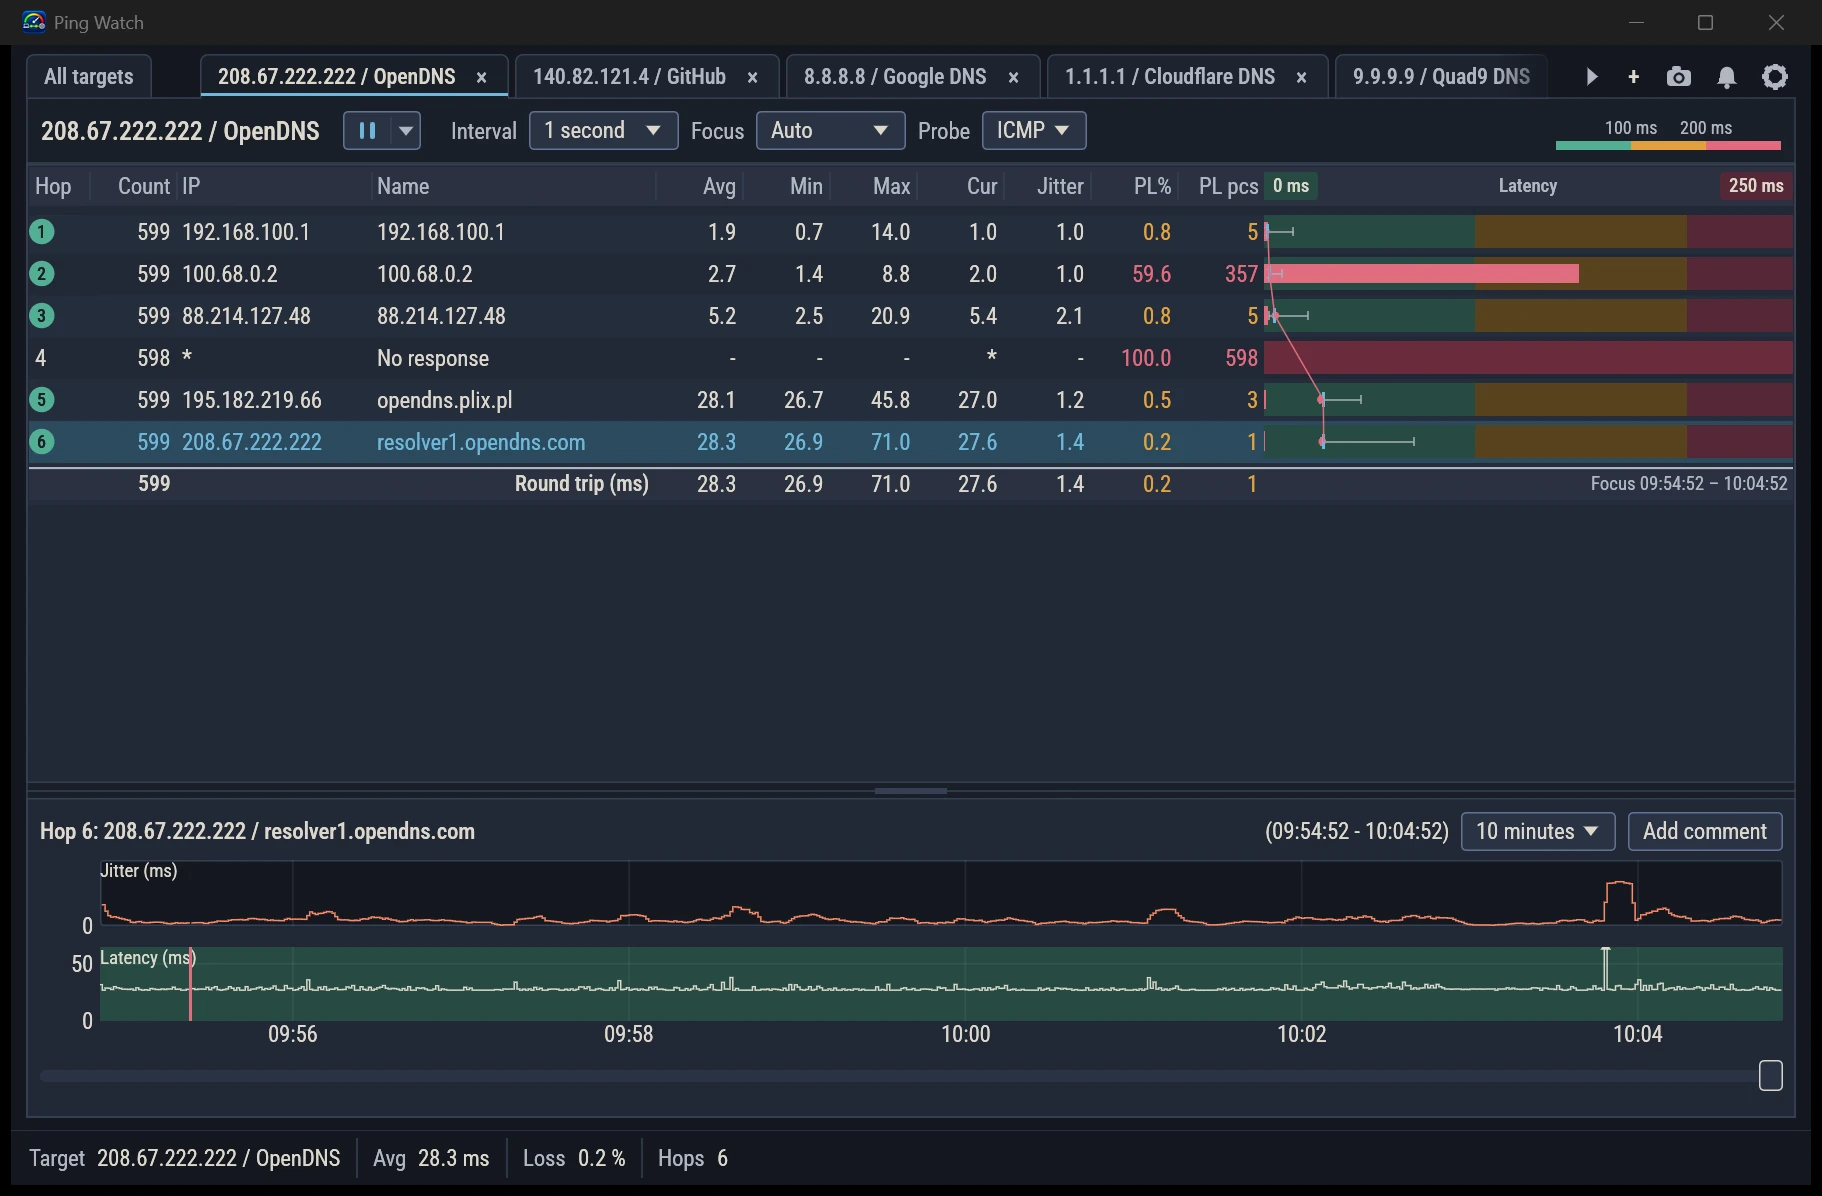
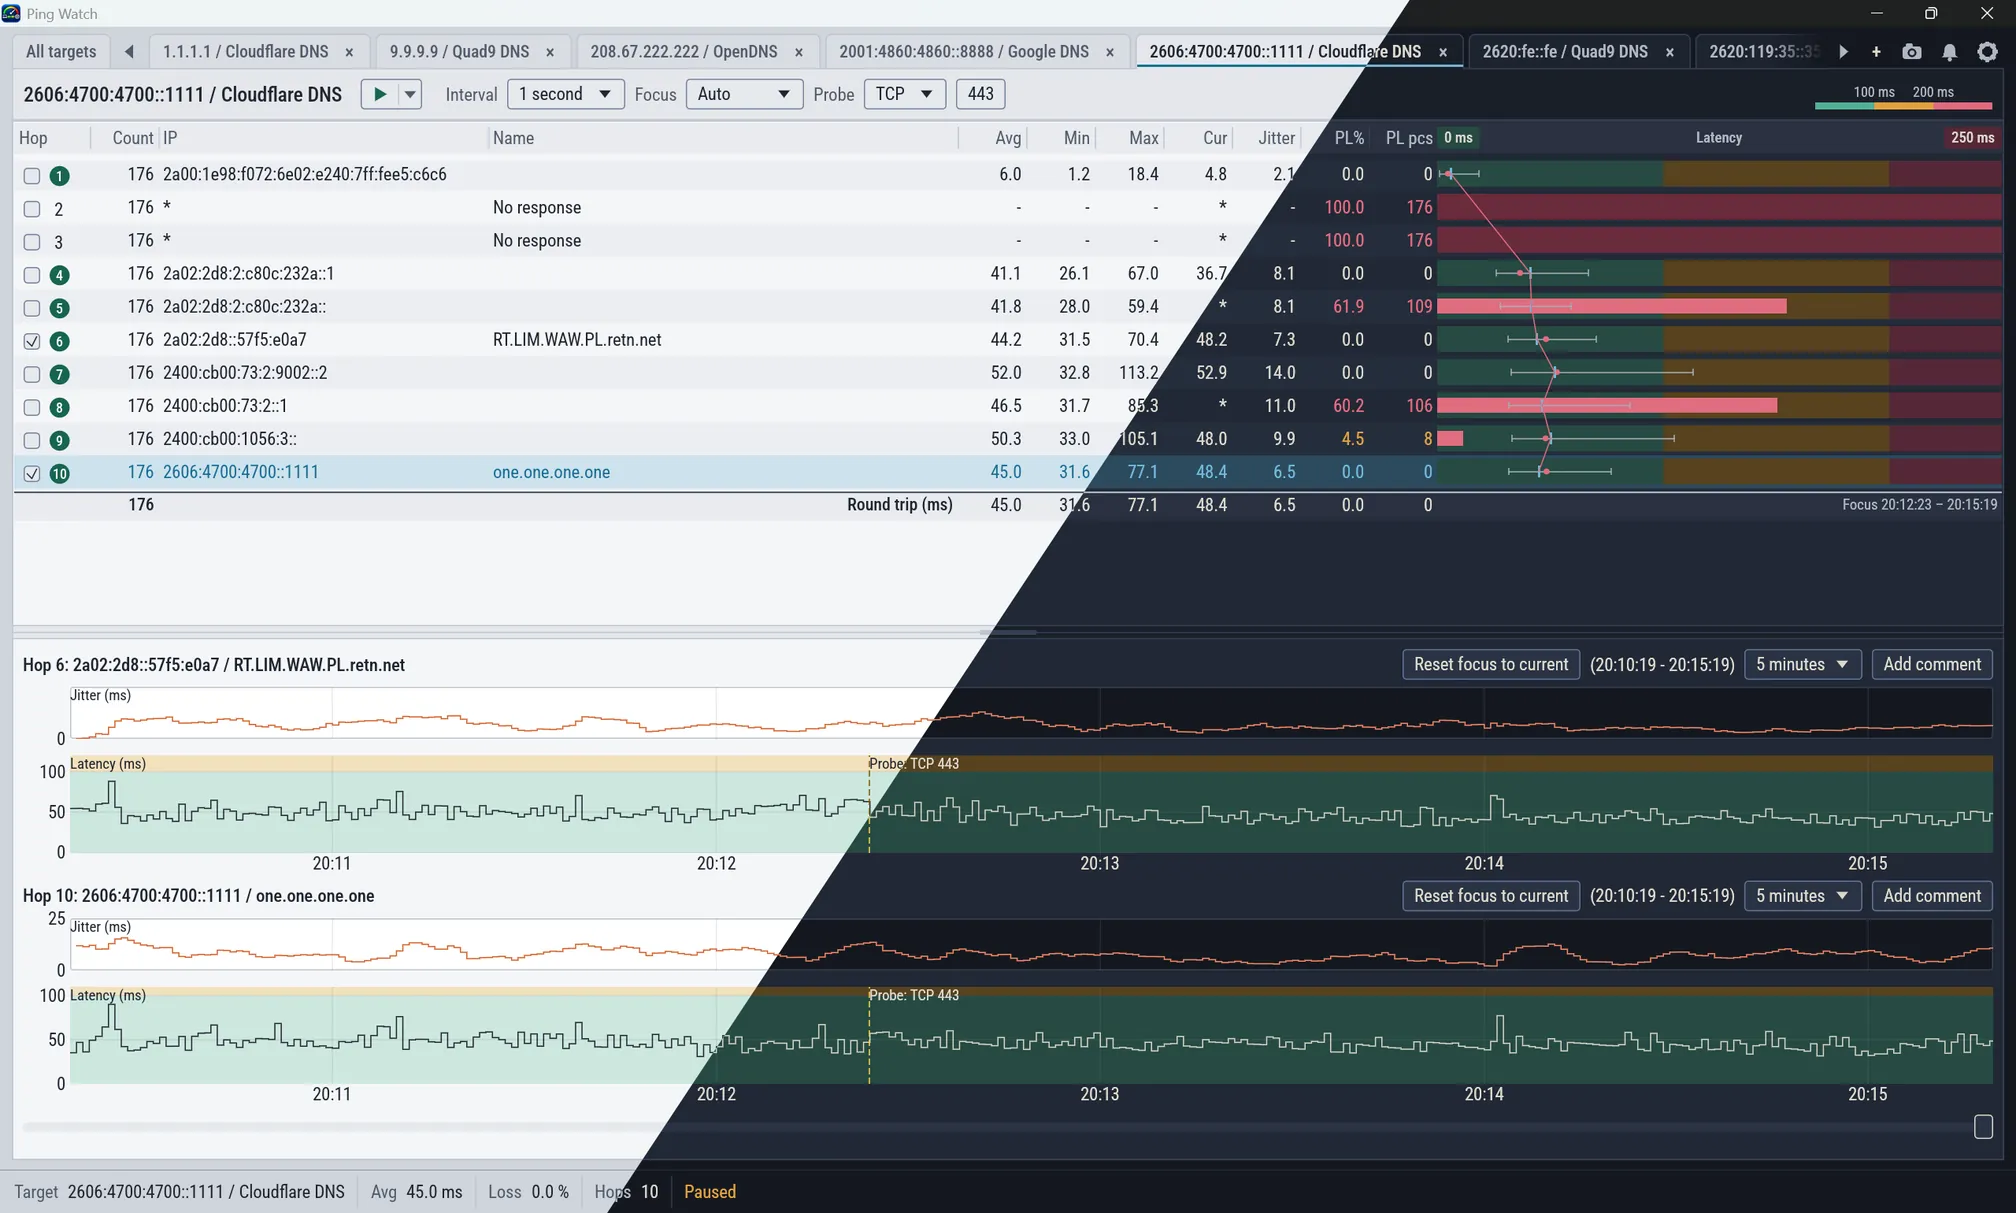
Screenshot: both themes, TCP over IPv6, two charted hops
The main window shot is redone in the light and the dark theme, 2016 × 1213
(twice the site's column), sRGB, without metadata; its size and alt text
follow in the site and the README.

diff --git a/docs/index.html b/docs/index.html
@@ -115,8 +115,8 @@
 </header>
 
 <main class="wrap">
-    <img class="shot" src="main-window.webp" width="1822" height="1196"
-         alt="A target tab: the hops to OpenDNS with their latency and loss, the latency bars and the timeline of the last ten minutes">
+    <img class="shot" src="main-window.webp" width="2016" height="1213"
+         alt="A target tab in the light and the dark theme: the hops to Cloudflare DNS over IPv6 by TCP with their latency and loss, the latency bars and the charts of two ticked hops over five minutes">
 
     <h2>What it does</h2>
     <p>Enter an address, and Ping Watch probes every router on the way to it, again and again, so a slow or dropping

diff --git a/README.md b/README.md
@@ -61,7 +61,7 @@ Enter an address, and Ping Watch probes every router on the way to it, again and
 stands out at once. It keeps the history, so you can look back at what happened while you were away.
 
 <p align="center">
-    <img src="docs/main-window.webp" alt="A target tab: the hops to OpenDNS with their latency and loss, the latency bars and the timeline of the last ten minutes" width="880">
+    <img src="docs/main-window.webp" alt="A target tab in the light and the dark theme: the hops to Cloudflare DNS over IPv6 by TCP with their latency and loss, the latency bars and the charts of two ticked hops over five minutes" width="880">
 </p>
 
 ## Features
